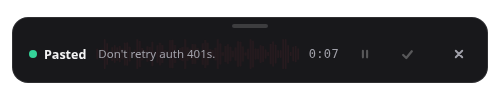
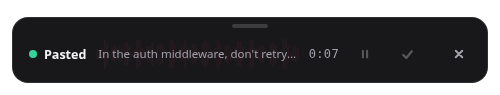
docs: address SWOT review of the agent-focused README
- Done screenshot shows the same prompt as the recording shot
- Scope the privacy headline to audio and prompts, by default
- Correct System prompt / Custom values / filler backstop wording
- Note dictionary needs cleanup, --toggle needs a running app
- Move endpoint options to "Using other services"; equal hero widths

Changed region(s): [[0.18, 0.5263, 0.6, 0.6316]]

diff --git a/scripts/screenshots.js b/scripts/screenshots.js
@@ -103,7 +103,7 @@ app.whenReady().then(async () => {
   await shot(overlay, "overlay-processing");
 
   await overlay.webContents.executeJavaScript(`
-    setStatus("done", "Pasted", "Don't retry auth 401s.");
+    setStatus("done", "Pasted", "In the auth middleware, don't retry on a 401. Surface the error and add a test.");
     "";
   `);
   await sleep(400);

diff --git a/README.md b/README.md
@@ -8,13 +8,13 @@
   <b>Talk to your coding agents.</b><br/>
   Press a hotkey, speak your prompt, press again — it lands in Claude Code,
   Codex, Cursor, or whatever else has focus.<br/>
-  Fully local. No cloud, no account, nothing leaves your machine.
+  Runs on your machine by default: your audio and prompts never leave it.
 </p>
 
 <p align="center">
   <img src="docs/screenshots/overlay-recording.png" width="500" alt="Earheart overlay transcribing a spoken coding-agent prompt" /><br/>
-  <img src="docs/screenshots/overlay-processing.png" width="400" alt="Earheart overlay showing a progress bar while the transcript is cleaned up" /><br/>
-  <img src="docs/screenshots/overlay-done.png" width="400" alt="Earheart overlay confirming an agent prompt was pasted" />
+  <img src="docs/screenshots/overlay-processing.png" width="500" alt="Earheart overlay showing a progress bar while the transcript is cleaned up" /><br/>
+  <img src="docs/screenshots/overlay-done.png" width="500" alt="Earheart overlay confirming an agent prompt was pasted" />
 </p>
 
 <p align="center">
@@ -26,8 +26,8 @@
 Working with an agent is a conversation, but you type it like a form. The
 prompts that actually work are long — context, constraints, the three things
 you already tried, the "no, not like that." Typing all of that is the slow part
-of the loop, and the reason people send a one-liner instead and then spend four
-turns correcting it.
+of the loop, and the reason people send a one-liner instead and then spend
+several turns correcting it.
 
 Earheart turns that part into talking. Press a global hotkey, say what you
 want, press it again: your speech is transcribed on-device (NVIDIA Parakeet),
@@ -36,7 +36,7 @@ backtracking), and **pasted straight into whatever app has focus** — the
 terminal running Claude Code, the Codex composer, Cursor's chat box, a GitHub
 issue, an email.
 
-**Nothing leaves your machine**, which matters more for agent prompts than for
+**Your voice and transcripts stay on your machine**, which matters more for agent prompts than for
 ordinary dictation: what you say to an agent is your own code, your file
 layout, your architecture, your unshipped work. Out of the box both models run
 **inside the app, on your computer** — no separate program, no Python, no
@@ -48,15 +48,8 @@ bar) and runs them in-process.
 It is still a general-purpose dictation app: the same hotkey works in email,
 notes, issues, and any other focused text field.
 
-Prefer to point Earheart elsewhere? Both steps are also **modular,
-OpenAI-compatible HTTP clients**, so you can choose where your voice goes:
-
-- **Built-in (default)**: Parakeet + Gemma run in-process — fully private,
-  nothing to install.
-- **Local server**: run the [Parakeet STT server](stt-server/) and an
-  [Ollama](https://ollama.com)/llama.cpp model yourself.
-- **Mix and match**: local STT with a hosted LLM for cleanup, or any other
-  combination. Switching is just a base URL in Settings.
+Prefer your own servers or a hosted API? See
+[Using other services](#using-other-services).
 
 ## Talking to agents
 
@@ -81,7 +74,7 @@ do not collide with your editor — live in **[docs/agents.md](docs/agents.md)**
 | **Claude Code / Codex CLI** (terminal) | Paste lands in the TUI input like any paste. On Linux, auto-paste needs `xdotool`/`wtype` — see [Platform notes](#linux). |
 | **Cursor, VS Code, JetBrains chat** | Nothing special — click the chat box and dictate. |
 | **claude.ai, ChatGPT, agent web UIs** | Same. The overlay never steals focus, so the composer keeps it. |
-| **Anywhere via a shortcut** | Bind a system shortcut, mouse button or foot pedal to `earheart --toggle` instead of using the built-in hotkey. |
+| **Anywhere via a shortcut** | Bind a system shortcut, mouse button or foot pedal to `earheart --toggle` instead of using the built-in hotkey (Earheart must already be running). |
 
 Three settings are worth a minute for agent work:
 
@@ -91,16 +84,18 @@ Three settings are worth a minute for agent work:
   prose is not what you want done to an instruction.
 - **Dictionary** (Settings → Cleanup). Add the repo, service, tool, and teammate
   names you say every day — `pnpm`, `kubectl`, `PostgreSQL`, `useEffect` — so
-  near-misses are corrected to the exact spelling.
-- **Cleanup prompt** (Settings → Cleanup). Tell it to preserve file paths,
+  the cleanup model corrects near-misses to the exact spelling. It works through
+  cleanup, so it has no effect with cleanup turned off.
+- **System prompt** (Settings → Cleanup). Tell it to preserve file paths,
   flags, and identifiers exactly as spoken and never to answer the transcript.
   The default prompt already treats your dictation as text to clean, never as
   instructions to follow.
 
   The selected style's rules are added to your edited prompt, and Clean and
-  Polished strip any filler or repeated word the model leaves behind. **Custom
-  values** (the sampling tab) is the exception: it runs your prompt alone, with
-  no style rules or safety net, so it must request filler and repetition removal.
+  Polished also strip the *um*/*uh* fillers and accidental repeated words the
+  model leaves behind. **Custom values** (the style picker's last option) is the
+  exception: it runs your prompt plus the dictionary, with no style rules and no
+  safety net, so it must ask for filler and repetition removal itself.
 
 **What it doesn't do yet.** You still press Enter yourself — Earheart pastes,
 it does not submit. The agent cannot ask you a question by voice or talk back.
@@ -131,9 +126,9 @@ label, and opinions are welcome.
 - **Private by default** — speech and cleanup run in-process, with no account,
   telemetry, cloud requirement, or network hop.
 - **Works anywhere without an integration** — the global hotkey (default
-  `Ctrl/Cmd+Shift+Space`) starts and stops dictation without moving focus. Bind
-  `earheart --toggle` to a system shortcut, mouse button, or foot pedal; use
-  `earheart --pause` for pause/resume.
+  `Ctrl/Cmd+Shift+Space`) starts and stops dictation without moving focus. Or,
+  with Earheart running, bind `earheart --toggle` to a system shortcut, mouse
+  button, or foot pedal; `earheart --pause` pauses and resumes.
 - **Speech-to-text with NVIDIA Parakeet** — Parakeet TDT 0.6B v3 (multilingual,
   25 languages) runs in-process via sherpa-onnx / ONNX Runtime, faster than
   realtime on CPU. Or use any OpenAI-compatible transcription API or the
@@ -158,7 +153,7 @@ and choose an asset (`<version>` is the version number, such as `0.8.0`):
 | System | Download |
 | --- | --- |
 | 🪟 Windows | `Earheart-Setup-<version>.exe` for the installer, or `Earheart-<version>.exe` to run a portable build. Windows on ARM (Snapdragon X) uses these x64 builds under built-in emulation; both engines work, but there is no separate ARM build yet. |
-| 🍎 macOS | `Earheart-<version>-arm64.dmg` for Apple Silicon (M1/M2/M3/M4), or `Earheart-<version>.dmg` for Intel. Each is packaged and tested on its matching architecture, which the updater preserves. Check  → **About This Mac** for “Chip” or “Processor” if unsure. |
+| 🍎 macOS | `Earheart-<version>-arm64.dmg` for Apple Silicon (M1/M2/M3/M4), or `Earheart-<version>.dmg` for Intel. Each is packaged and tested on its matching architecture, which the updater preserves. Check the Apple menu → **About This Mac** for “Chip” or “Processor” if unsure. |
 | 🐧 Linux | `Earheart-<version>.AppImage` for any distro, or `earheart_<version>_amd64.deb` for Debian/Ubuntu. |
 
 ### 2. Install it
@@ -254,7 +249,7 @@ Settings → Speech-to-text or Settings → Cleanup.
 The wizard's last step downloads the models that run on your machine — a small
 Parakeet speech model (≈ 670 MB) and a small Gemma cleanup model (≈ 800 MB) —
 showing a progress bar as it goes. It's a one-time download; everything after
-that is faster than realtime, even on CPU. If a download is interrupted,
+that, speech-to-text runs faster than realtime, even on CPU. If a download is interrupted,
 retrying resumes from the saved partial file when possible. You can pick a
 larger, higher-quality cleanup model in the wizard or later in Settings → Cleanup.
 
@@ -304,6 +299,16 @@ keeps recent transcriptions in a local file (you can turn this off).
 
 ## Using other services
 
+Both speech-to-text and cleanup steps are also **modular,
+OpenAI-compatible HTTP clients**, so you can choose where your voice goes:
+
+- **Built-in (default)**: Parakeet + Gemma run in-process — fully private,
+  nothing to install.
+- **Local server**: run the [Parakeet STT server](stt-server/) and an
+  [Ollama](https://ollama.com)/llama.cpp model yourself.
+- **Mix and match**: local STT with a hosted LLM for cleanup, or any other
+  combination. Switching is just a base URL in Settings.
+
 Anything that implements the OpenAI API shapes works out of the box:
 
 | Component | Endpoint used | Examples |
@@ -336,8 +341,11 @@ endpoints (e.g. OpenWhispr) or from scripts via the OpenAI SDK. See
   earheart --toggle
   ```
 
-  Earheart runs single-instance; a second invocation just toggles dictation in
-  the running app. The same works for pause/resume with `earheart --pause`.
+  Earheart runs single-instance; with the app already running, a second
+  invocation just toggles dictation in it. Use the full path to the binary if
+  `earheart` isn't on your `PATH`, e.g.
+  `~/Applications/Earheart-<version>.AppImage --toggle`. The same works for
+  pause/resume with `earheart --pause`.
 
 ### macOS
 

diff --git a/docs/agents.md b/docs/agents.md
@@ -26,9 +26,10 @@ speech, Gemma for cleanup) — no network hop, no account, no telemetry. Nothing
 you say to an agent leaves your computer unless you deliberately point Earheart
 at a hosted endpoint.
 
-## Do this once, for any agent
+## Optional tuning for any agent
 
-Settings → Cleanup, three fields, and every recipe below gets better:
+Dictation works as soon as the wizard is done. If a term keeps coming out
+wrong or a prompt gets reworded, these three fields in Settings → Cleanup help:
 
 1. **Cleanup style → Clean.** The default, and the right one for prompts: it
    drops the *ums* and false starts but keeps your wording. **Verbatim** when
@@ -36,9 +37,9 @@ Settings → Cleanup, three fields, and every recipe below gets better:
    instruction changes what the agent does.
 2. **Dictionary.** Add the words you say fifty times a day: your repo and
    service names, `pnpm`, `kubectl`, `useEffect`, teammates' names.
-   Speech-to-text has never heard of your project; near-misses get corrected to
-   these exact spellings.
-3. **Cleanup prompt.** Editable. Until the dedicated Prompt style ships
+   Speech-to-text has never heard of your project; the cleanup model corrects
+   near-misses to these exact spellings (so cleanup must be on).
+3. **System prompt.** Editable. Until the dedicated Prompt style ships
    ([#69](https://github.com/cleanunicorn/earheart/issues/69)), append a line
    like this to make cleanup safe for instructions:
 
@@ -63,7 +64,7 @@ Settings → Cleanup, three fields, and every recipe below gets better:
 text can be read as "submit", so a three-paragraph prompt gets sent as its
 first sentence while the rest lands in the next turn. Two ways to avoid it:
 don't dictate "new line" or "new paragraph" in a terminal, and add the
-"one paragraph, no line breaks" line from the cleanup prompt above. Fixing this
+"one paragraph, no line breaks" line from the system prompt above. Fixing this
 properly is [#68](https://github.com/cleanunicorn/earheart/issues/68).
 
 **Linux: auto-paste needs a keystroke tool.** `xdotool` on X11,
@@ -82,7 +83,7 @@ terminal's preferences, or pick **Copy to clipboard only** under Settings →
 General → *Where the text goes* and paste yourself. macOS (Cmd+V) and Windows
 are unaffected.
 
-**Wayland: the global hotkey won't register.** GNOME and KDE on Wayland stop
+**Wayland: the global hotkey may not register.** GNOME and KDE on Wayland stop
 apps from grabbing global keys. Bind a system shortcut (GNOME Settings →
 Keyboard → Custom Shortcuts) to:
 
@@ -90,8 +91,9 @@ Keyboard → Custom Shortcuts) to:
 earheart --toggle
 ```
 
-Earheart is single-instance, so a second invocation just toggles dictation in
-the running app. `earheart --pause` pauses and resumes the same way. This also
+Earheart is single-instance, so with the app already running a second
+invocation just toggles dictation in it (use the full path to the AppImage or
+binary if `earheart` isn't on your `PATH`). `earheart --pause` pauses and resumes the same way. This also
 works for a mouse button or a foot pedal on any platform.
 
 ## Editor agent panels — Cursor, Windsurf, VS Code, JetBrains
